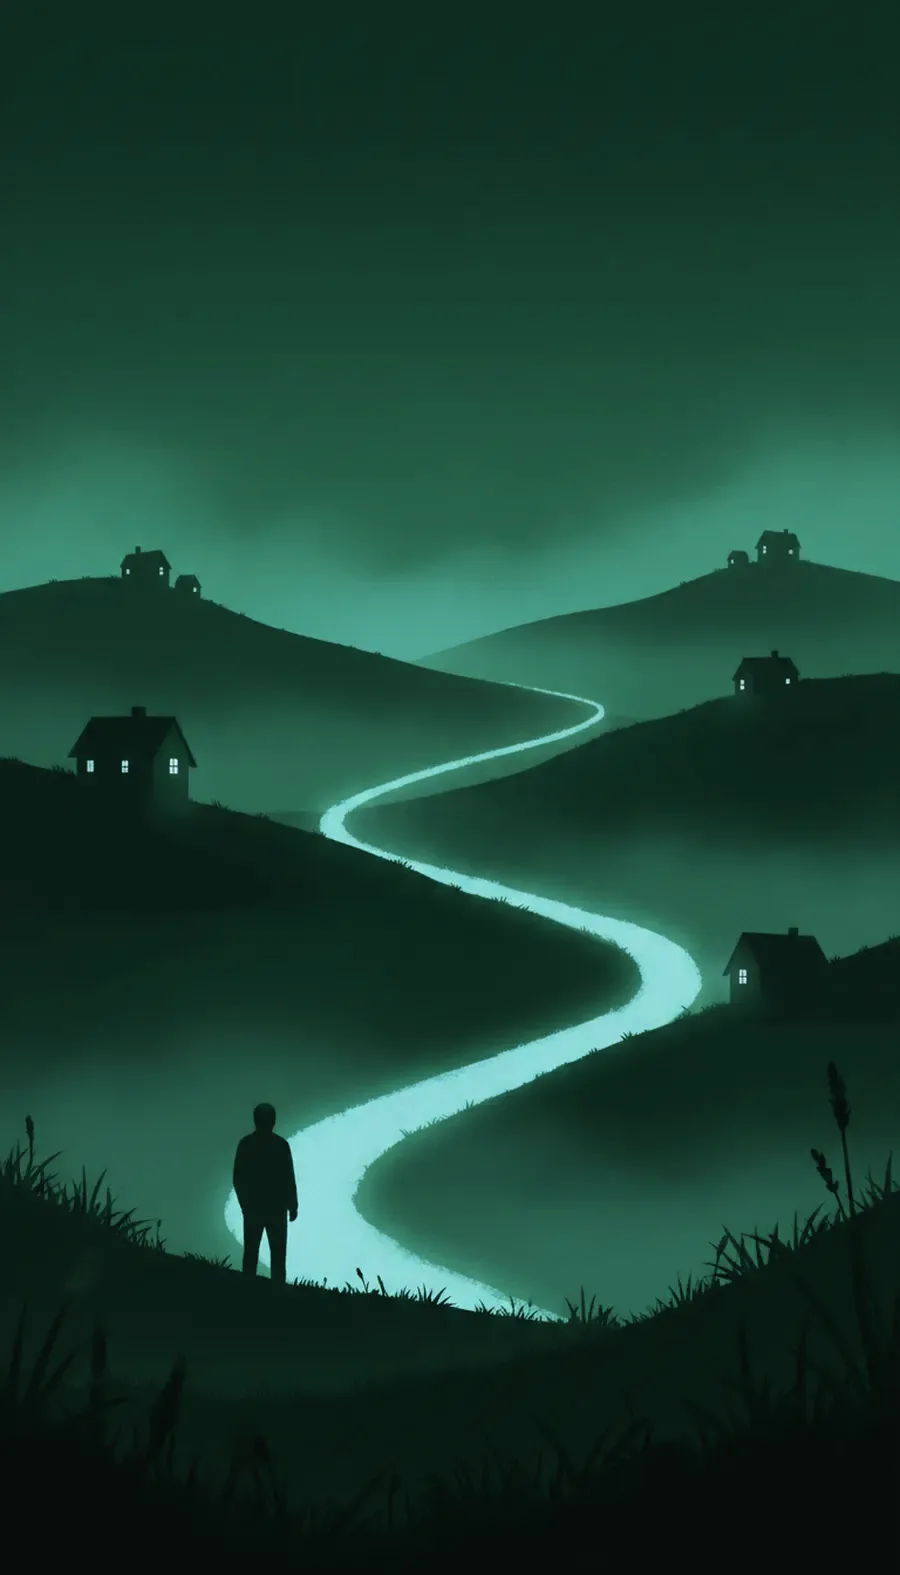
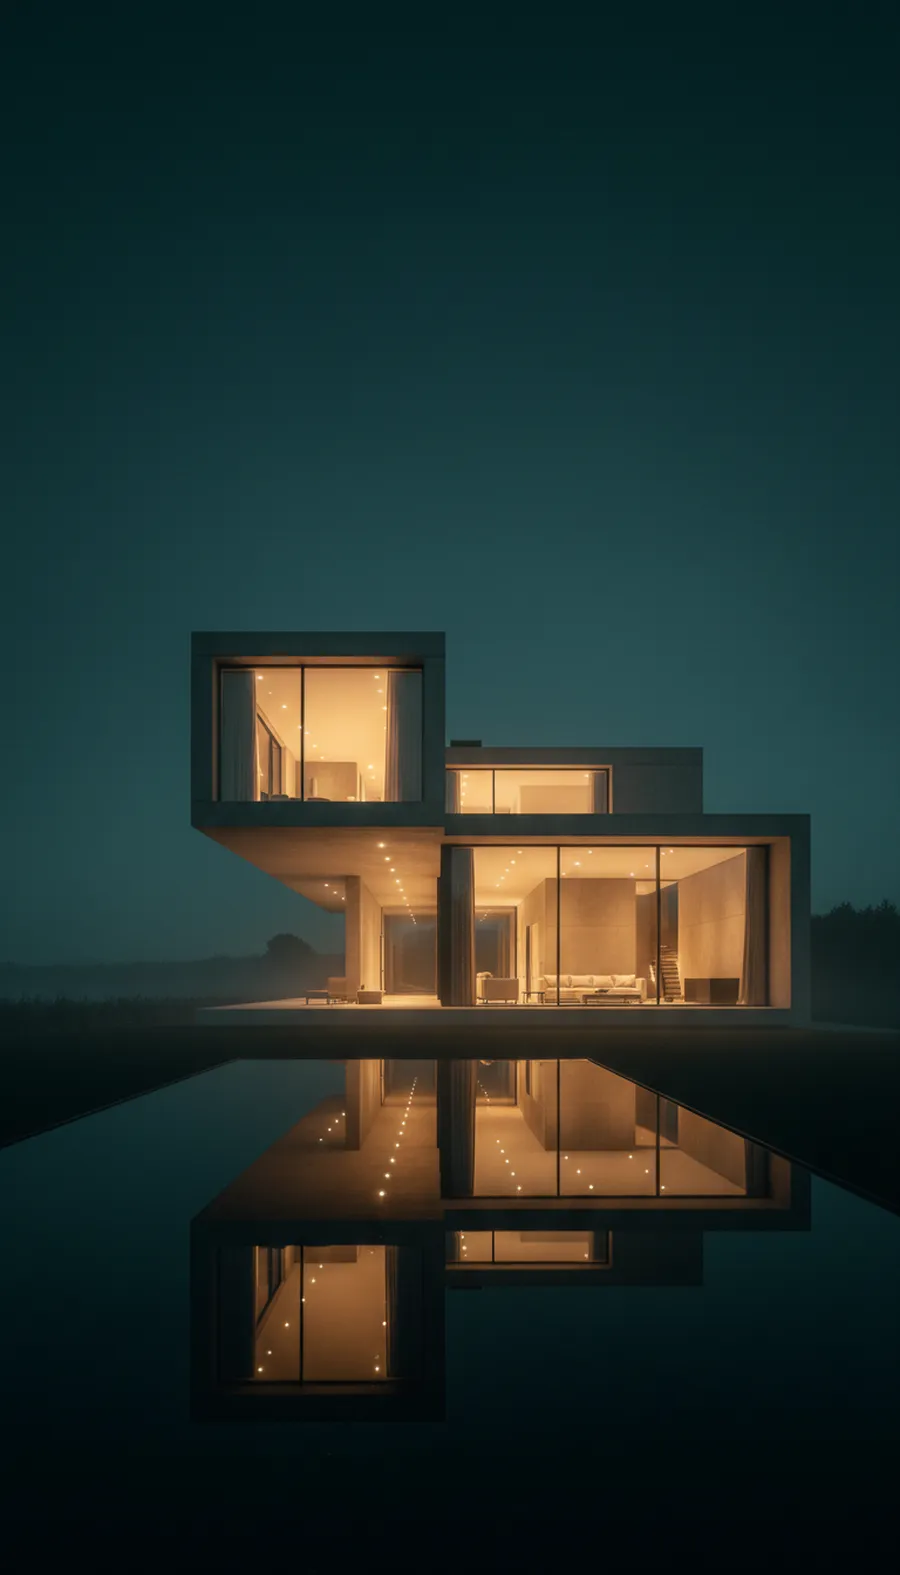
Fondo de inicio nuevo y tarjetas compactas como Roomix

diff --git a/components/PropertyCard.tsx b/components/PropertyCard.tsx
@@ -18,6 +18,34 @@ export default function PropertyCard({ l, compact = false, onHover, onMap }: { l
   const go = (e: React.MouseEvent | null, d: number) => { e?.preventDefault(); e?.stopPropagation(); setI((v) => (v + d + n) % n); };
   const alquiler = l.operacion === "alquilar";
   const visitada = visitadas.includes(l.id);
+  if (compact) return (
+    <Link href={`/inmueble/${l.id}/`} className="group block min-w-0" onMouseEnter={() => onHover?.(l.id)} onMouseLeave={() => onHover?.(null)}>
+      <div className="relative aspect-[4/3] overflow-hidden rounded-2xl bg-card"
+        onTouchStart={(e) => (touch.current = e.touches[0].clientX)}
+        onTouchEnd={(e) => { if (touch.current === null) return; const dx = e.changedTouches[0].clientX - touch.current; if (Math.abs(dx) > 40) go(null, dx < 0 ? 1 : -1); touch.current = null; }}>
+        {/* eslint-disable-next-line @next/next/no-img-element */}
+        <img src={l.fotos[i]} alt={`Foto de ${l.titulo}`} loading="lazy" className="h-full w-full object-cover transition duration-500 group-hover:scale-[1.03]" />
+        <div className="pointer-events-none absolute inset-x-0 bottom-0 h-20 bg-gradient-to-t from-black/60 to-transparent" />
+        {visitada && <span className="absolute left-2.5 top-2.5 flex items-center gap-1 rounded-full bg-black/55 px-2 py-0.5 text-[11px] font-medium text-white backdrop-blur-sm"><Eye size={12} />Visitada</span>}
+        {!visitada && l.destacada && <span className="absolute left-2.5 top-2.5 rounded-full bg-black/55 px-2 py-0.5 text-[10px] font-semibold uppercase tracking-wide text-[#ecd5a3] backdrop-blur-sm">Destacado</span>}
+        <button aria-label={fav ? "Quitar de favoritos" : "Guardar en favoritos"} onClick={(e) => { e.preventDefault(); e.stopPropagation(); toggle(l.id); }}
+          className="glass-btn absolute right-2.5 top-2.5 h-8 w-8"><Heart size={16} className={fav ? "fill-[#34d399] text-[#34d399]" : ""} /></button>
+        {n > 1 && <button onClick={(e) => go(e, 1)} aria-label="Foto siguiente" className="glass-btn absolute right-2.5 top-1/2 h-8 w-8 -translate-y-1/2 md:opacity-0 md:group-hover:opacity-100"><ChevronRight size={16} /></button>}
+        <p className="absolute bottom-2.5 left-3 flex items-baseline gap-1 text-white">
+          <span className="text-[15px] font-semibold tracking-tight">{n0(l.precio)} €</span>{alquiler && <span className="text-[11px] text-white/80">/mes</span>}
+        </p>
+        {n > 1 && <div className="absolute bottom-3.5 right-3 flex items-center gap-1">{Array.from({ length: n }).map((_, k) => <span key={k} className={`h-1 rounded-full ${k === i ? "w-3 bg-white" : "w-1 bg-white/55"}`} />)}</div>}
+      </div>
+      <div className="mt-2 space-y-0.5">
+        <h3 className="truncate text-[13px] text-soft">{l.direccion}, {l.barrio}</h3>
+        <p className="flex items-center gap-2.5 text-[12px] text-muted">
+          {l.habitaciones > 0 ? <span className="flex items-center gap-1"><BedDouble size={13} />{l.habitaciones} hab</span> : <span className="capitalize">{l.tipo}</span>}
+          {l.banos > 0 && <span className="flex items-center gap-1"><Bath size={13} />{l.banos}</span>}
+          <span className="flex items-center gap-1"><Ruler size={13} />{l.m2} m²</span>
+        </p>
+      </div>
+    </Link>
+  );
   return (
     <Link href={`/inmueble/${l.id}/`} className="group block min-w-0" onMouseEnter={() => onHover?.(l.id)} onMouseLeave={() => onHover?.(null)}>
       <div className="relative aspect-[16/11] overflow-hidden rounded-[22px] bg-card md:aspect-[4/3] md:rounded-xl"

diff --git a/app/page.tsx b/app/page.tsx
@@ -44,7 +44,7 @@ export default function Home() {
         <img src={asset("/img/hero-mobile.webp")} alt="" className="absolute inset-0 -z-10 h-full w-full object-cover md:hidden" />
         {/* eslint-disable-next-line @next/next/no-img-element */}
         <img src={asset("/img/hero-wide.webp")} alt="" className="absolute inset-0 -z-10 hidden h-full w-full object-cover md:block" />
-        <div className="absolute inset-0 -z-10 bg-gradient-to-b from-black/20 via-transparent to-bg" />
+        <div className="absolute inset-0 -z-10 bg-gradient-to-b from-black/30 via-black/10 to-bg" />
         <h1 className="mx-auto mt-[22vh] max-w-3xl text-center font-serif text-[44px] font-bold leading-[1.08] text-white md:mt-6 md:text-7xl">
           Busca <em className="font-semibold italic">pisos</em><br />como te los imaginas
         </h1>
@@ -80,12 +80,12 @@ export default function Home() {
 
         <section>
           <SectionHeader eyebrow="Nuevos y destacados" title="Lo último en Madrid" href="/buscar/alquilar?ciudad=madrid" />
-          <Carousel>{madrid.map((l) => <div key={l.id} className="w-[260px] shrink-0 snap-start md:w-[290px]"><PropertyCard l={l} compact /></div>)}</Carousel>
+          <Carousel>{madrid.map((l) => <div key={l.id} className="w-[280px] shrink-0 snap-start md:w-[290px]"><PropertyCard l={l} compact /></div>)}</Carousel>
         </section>
 
         <section>
           <SectionHeader eyebrow="Selección" title="Terrazas que inspiran" href="/buscar/comprar?extras=terraza" />
-          <Carousel>{vistas.map((l) => <div key={l.id} className="w-[260px] shrink-0 snap-start md:w-[290px]"><PropertyCard l={l} compact /></div>)}</Carousel>
+          <Carousel>{vistas.map((l) => <div key={l.id} className="w-[280px] shrink-0 snap-start md:w-[290px]"><PropertyCard l={l} compact /></div>)}</Carousel>
         </section>
 
         {barrios.map(([c, b]) => {
@@ -93,7 +93,7 @@ export default function Home() {
           return (
             <section key={b}>
               <SectionHeader eyebrow={`${items.length} anuncios recientes`} title={`Lo último en ${b}`} href={`/buscar/alquilar?ciudad=${c}&barrio=${encodeURIComponent(b)}`} />
-              <Carousel>{items.map((l) => <div key={l.id} className="w-[260px] shrink-0 snap-start md:w-[290px]"><PropertyCard l={l} compact /></div>)}</Carousel>
+              <Carousel>{items.map((l) => <div key={l.id} className="w-[280px] shrink-0 snap-start md:w-[290px]"><PropertyCard l={l} compact /></div>)}</Carousel>
             </section>
           );
         })}

diff --git a/app/globals.css b/app/globals.css
@@ -8,8 +8,8 @@ html, body { background: #0f1513; color: #f2f2f2; }
 body { font-family: Inter, system-ui, sans-serif; -webkit-font-smoothing: antialiased; }
 .no-scrollbar::-webkit-scrollbar { display: none; }
 .no-scrollbar { scrollbar-width: none; }
-.eyebrow { @apply text-[11px] font-medium uppercase tracking-[0.14em] text-muted; }
-.h-section { @apply font-serif text-3xl md:text-4xl text-white; }
+.eyebrow { @apply text-[10px] font-medium uppercase tracking-[0.16em] text-muted; }
+.h-section { @apply font-serif text-[24px] leading-tight md:text-4xl text-white; }
 .btn-brand { @apply rounded-full bg-brand-grad px-5 py-2.5 text-sm font-medium text-white shadow-[0_0_24px_rgba(16,185,129,.35)] transition hover:brightness-110; }
 .btn-ghost { @apply rounded-full border border-line bg-surface px-4 py-2 text-sm text-soft transition hover:border-neutral-500 hover:text-white; }
 .chip { @apply inline-flex items-center gap-1.5 rounded-full border border-line bg-surface px-3 py-1.5 text-xs text-soft hover:border-neutral-500 hover:text-white transition; }

diff --git a/components/SectionHeader.tsx b/components/SectionHeader.tsx
@@ -1,9 +1,9 @@
 import Link from "next/link";
 export default function SectionHeader({ eyebrow, title, href, more = "Ver más" }: { eyebrow?: string; title: string; href?: string; more?: string }) {
   return (
-    <div className="mb-5 flex items-end justify-between">
-      <div>{eyebrow && <p className="eyebrow mb-1.5">{eyebrow}</p>}<h2 className="h-section">{title}</h2></div>
-      {href && <Link href={href} className="text-sm text-soft hover:text-white">{more} →</Link>}
+    <div className="mb-4 flex flex-col gap-1 md:mb-5 md:flex-row md:items-end md:justify-between">
+      <div>{eyebrow && <p className="eyebrow mb-1">{eyebrow}</p>}<h2 className="h-section">{title}</h2></div>
+      {href && <Link href={href} className="text-[13px] text-soft hover:text-white">{more} →</Link>}
     </div>
   );
 }
